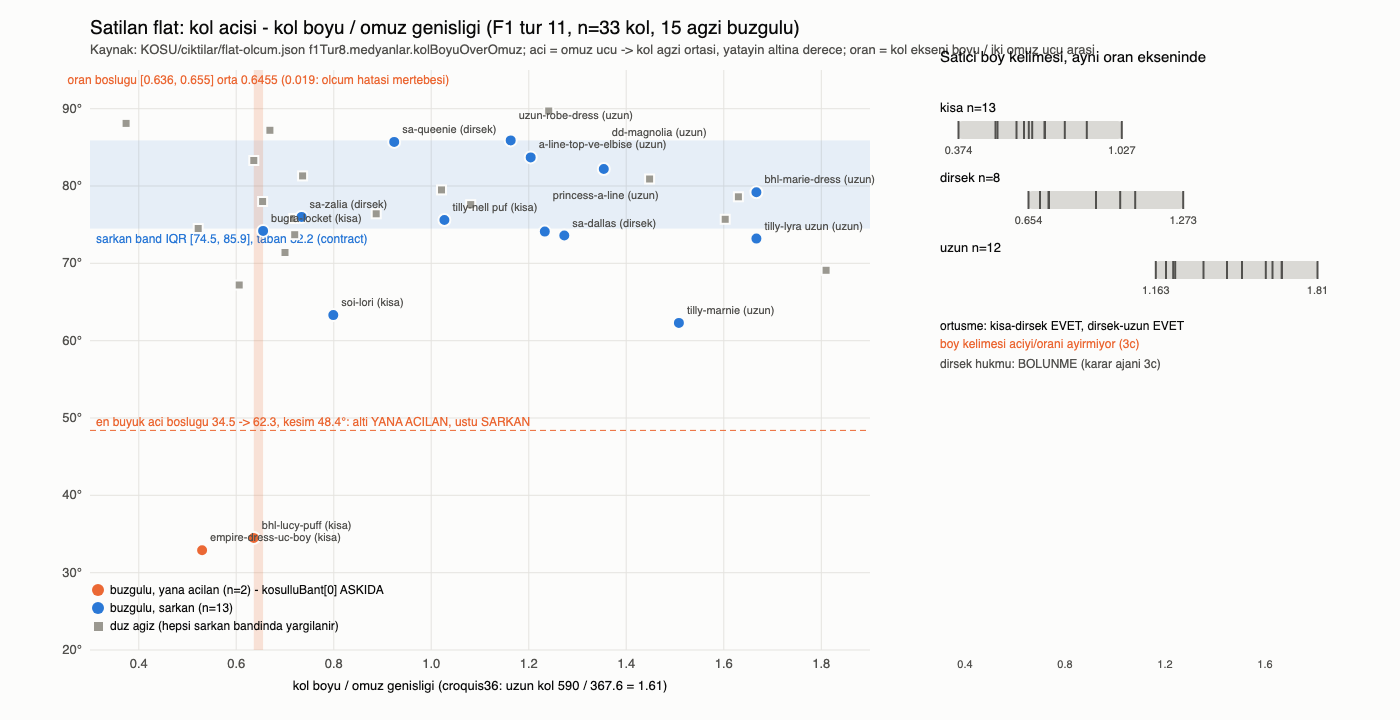
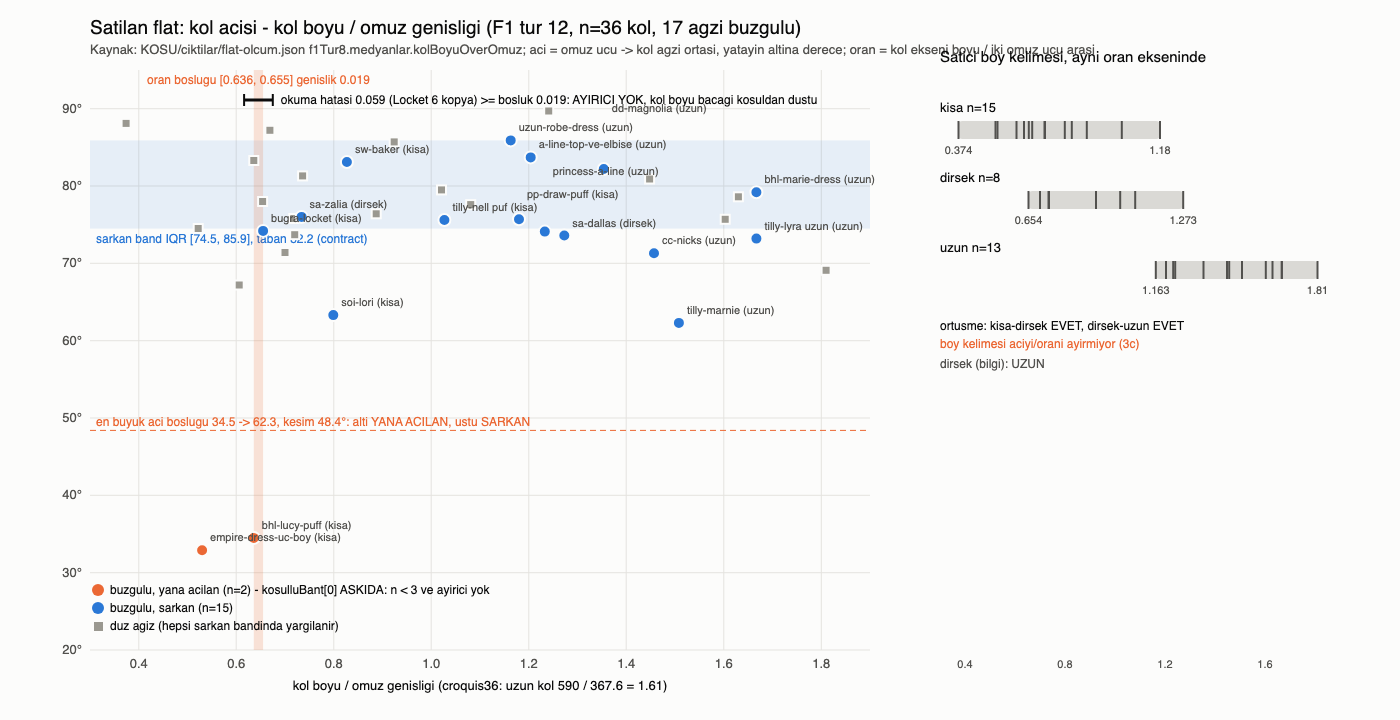
f1 tur 12 visual: kol-aci-oran regenerated with reading-error bar, three new candidates and the demoted elbow table
kol-aci-oran.py: legend '<' escaped (raw '<' made the svg malformed xml, first chrome render showed a broken-image icon; read the parser error, fixed, re-rendered); reading-error bar (Locket 6-copy spread 0.059) drawn next to the 0.019 gap on the same axis with the verdict text; title says tur 12, n=36 sleeves / 17 gathered. png via isolated headless chrome (1400x720, 127 KB, timeout 124 is the known non-exiting-chrome behaviour, file complete). devir kabul chain: ctest regex 25 tests -> 24 green + expected flat_ayni red; uret.mjs exit 0 then flat_ayni '34 hukum' count 1; cizim_giysi_mi '1 ihlal' 1 and '(b) kol acisi' 1; primitif_ifade / enum_dallanma exit 0; no leftover chrome/flatshot processes

diff --git a/KOSU/kol-aci-oran.py b/KOSU/kol-aci-oran.py
@@ -27,9 +27,9 @@ if kb['bosluk']:
     a, b2 = kb['bosluk']; o.append('<rect x="%.1f" y="%d" width="%.1f" height="%d" fill="%s" opacity="0.18"/>' % (X(a), T, X(b2) - X(a), ph, C_YANA))
     o.append('<text x="%.1f" y="%d" fill="%s" font-size="12" text-anchor="middle">oran boslugu [%s, %s] genislik %s</text>' % (X((a + b2) / 2), T + 14, C_YANA, a, b2, kb['boslukGenisligi']))
     # F1 karar 2 (tur 12): okuma hatasi cubugu (Locket 6 kopya yayilimi) boslugun yanina, ayni eksende — bosluk bu cubugun icinde kaliyorsa ayirici yok
-    h = kb['okumaHatasi']['kolBoyuOverOmuz']; hx0 = X((a + b2) / 2 - h / 2); hx1 = X((a + b2) / 2 + h / 2); hy = T + 34
+    h = kb['okumaHatasi']['kolBoyuOverOmuz']; hx0 = X((a + b2) / 2 - h / 2); hx1 = X((a + b2) / 2 + h / 2); hy = T + 30
     o.append('<line x1="%.1f" y1="%d" x2="%.1f" y2="%d" stroke="%s" stroke-width="3"/>' % (hx0, hy, hx1, hy, INK)); o.append('<line x1="%.1f" y1="%d" x2="%.1f" y2="%d" stroke="%s" stroke-width="2"/>' % (hx0, hy - 6, hx0, hy + 6, INK)); o.append('<line x1="%.1f" y1="%d" x2="%.1f" y2="%d" stroke="%s" stroke-width="2"/>' % (hx1, hy - 6, hx1, hy + 6, INK))
-    o.append('<text x="%.1f" y="%d" fill="%s" font-size="12">okuma hatasi %s (Locket 6 kopya yayilimi) %s bosluk %s -> %s</text>' % (hx1 + 8, hy + 4, INK, h, '&gt;=' if h >= kb['boslukGenisligi'] else '&lt;', kb['boslukGenisligi'], 'AYIRICI YOK, kol boyu bacagi kosuldan dustu' if h >= kb['boslukGenisligi'] else 'ayirici var'))
+    o.append('<text x="%.1f" y="%d" fill="%s" font-size="12">okuma hatasi %s (Locket 6 kopya) %s bosluk %s: %s</text>' % (hx1 + 8, hy + 4, INK, h, '&gt;=' if h >= kb['boslukGenisligi'] else '&lt;', kb['boslukGenisligi'], 'AYIRICI YOK, kol boyu bacagi kosuldan dustu' if h >= kb['boslukGenisligi'] else 'ayirici var'))
 if kb['aciKumeleri']['kesimDeg']:
     k = kb['aciKumeleri']['kesimDeg']; o.append('<line x1="%d" y1="%.1f" x2="%d" y2="%.1f" stroke="%s" stroke-dasharray="6 4"/>' % (L, Y(k), L + PW, Y(k), C_YANA))
     o.append('<text x="%d" y="%.1f" fill="%s" font-size="12" dy="-4">en buyuk aci boslugu %s -&gt; %s, kesim %.1f°: alti YANA ACILAN, ustu SARKAN</text>' % (L + 6, Y(k), C_YANA, kb['aciKumeleri']['enBuyukAciBoslugu'][0][0], kb['aciKumeleri']['enBuyukAciBoslugu'][0][1], k))
@@ -51,7 +51,7 @@ for x, y, ad, boy, col in labels:
     used.append((x, ty)); o.append('<text x="%.1f" y="%.1f" font-size="11" fill="%s">%s (%s)</text>' % (x + 8, ty, INK2, ad, boy))
 # legend
 lx, ly = L + 8, T + ph - 60
-for i, (c, t, shape) in enumerate([(C_YANA, 'buzgulu, yana acilan (n=%d) - kosulluBant[0] ASKIDA: n < 3 ve ayirici yok' % band['n'], 'c'), (C_SARKAN, 'buzgulu, sarkan (n=%d)' % len(kb['aciKumeleri']['sarkan']), 'c'), (C_DUZ, 'duz agiz (hepsi sarkan bandinda yargilanir)', 'r')]):
+for i, (c, t, shape) in enumerate([(C_YANA, 'buzgulu, yana acilan (n=%d) - kosulluBant[0] ASKIDA: n &lt; 3 ve ayirici yok' % band['n'], 'c'), (C_SARKAN, 'buzgulu, sarkan (n=%d)' % len(kb['aciKumeleri']['sarkan']), 'c'), (C_DUZ, 'duz agiz (hepsi sarkan bandinda yargilanir)', 'r')]):
     yy = ly + i * 18
     o.append('<circle cx="%d" cy="%d" r="6" fill="%s"/>' % (lx, yy, c) if shape == 'c' else '<rect x="%d" y="%d" width="9" height="9" fill="%s"/>' % (lx - 4, yy - 4, c))
     o.append('<text x="%d" y="%d" dy="4" fill="%s" font-size="12">%s</text>' % (lx + 12, yy, INK, t))
